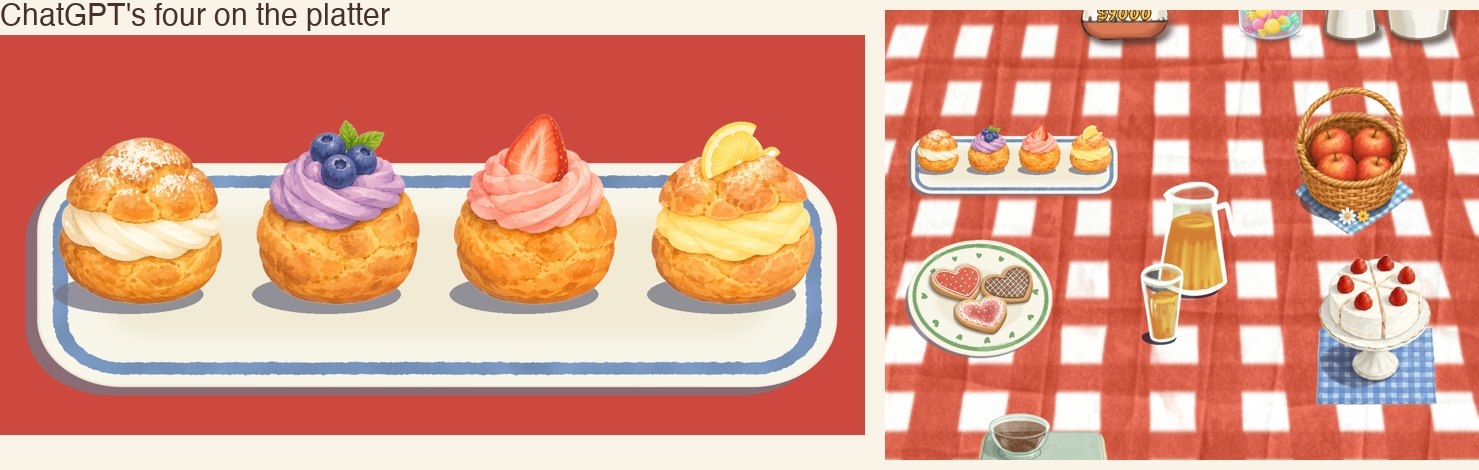
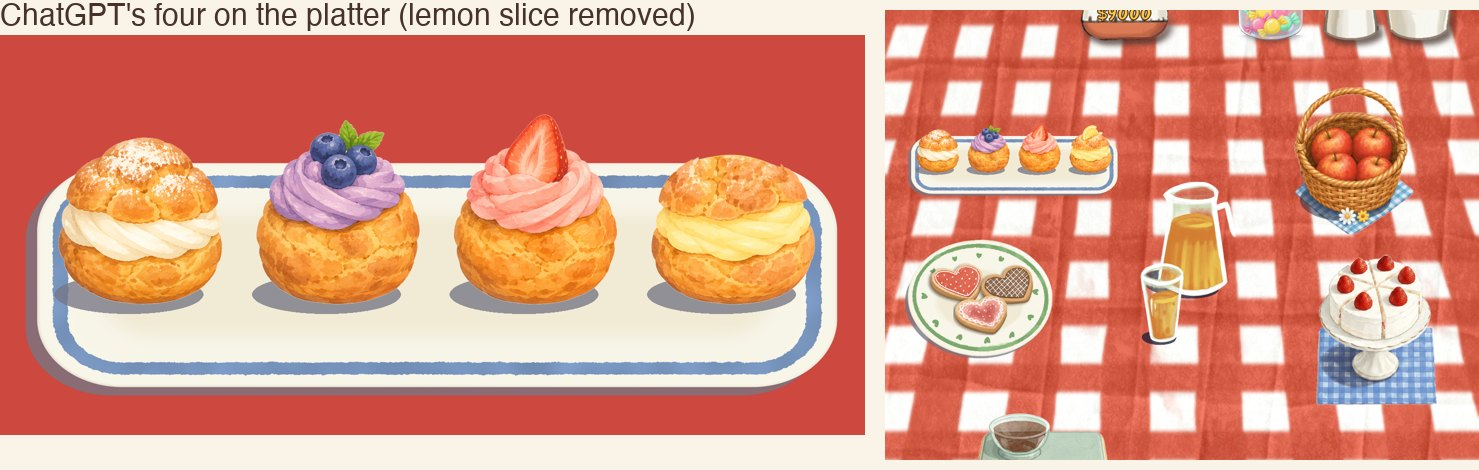
Report: lemon choux without its slice; the four choux are seen from about 30-35 degrees, not 40 (owner's question)

Changed region(s): [[0.2488, 0.0, 0.4665, 0.0596], [0.4665, 0.2383, 0.5287, 0.3872]]

diff --git a/Docs/tools/report_page/index.html b/Docs/tools/report_page/index.html
@@ -76,13 +76,24 @@ h3 small{font-weight:600;color:var(--soft);font-size:13px;margin-left:6px}
 <div class="who p1"><h3>You</h3>
 <p><b>App Store page</b> (Q&amp;A): what we can improve, tick what to do.</p>
 <p><b>Kitchen</b> (Current): the glow brush on the blender, and four ideas for the cake and choux step.</p>
-<p><b>Choux</b> (Current): your platter and ChatGPT's four new choux.</p>
+<p><b>Choux</b> (Current): your platter and ChatGPT's four new choux; their angle (Q&amp;A).</p>
 <p><b>Choux frames</b> (Q&amp;A): the third choux is fixed; the full frame still moves the choux.</p>
 <p><b>Say "build"</b> when you want a test build with these. None before your word.</p></div>
 <div class="who p2"><h3>Me</h3><p>Players since 26.11.21 (Analysis): day 1 is fixed; day 2 and the kitchen tutorial are where people stop.</p><p>26.11.22 and the 15 Stars are waiting for Apple's review; they go on sale by themselves.</p><p>ChatGPT's night beach is in the game (your tick), in no build. The kitchen board and stand stay as they are.</p></div>
 </div>
 
 <h2 id="qa"><span class="n">2</span>Q&amp;A</h2>
+<div class="q"><h3>You asked: are these choux at 40 degrees? (16 November)</h3>
+<ul>
+<li><b>No, they are seen from lower, about 30 to 35 degrees.</b> I measured the lemon choux's cream ring: it is an oval 0.55 as tall as wide. The table's look (the platter, the cookie plate, your heart plate) is 0.77 to 0.80.</li>
+<li>So next to the platter they look a little side-on: you see the side of the lid, hardly its top.</li>
+<li><b>My suggestion:</b> ask ChatGPT to paint them again from higher, with the cake stand and cookie plate as the camera reference and these four as the design reference. The next picture can be made after 4:56 PM today.</li>
+</ul>
+<ul class="checks">
+<li><label><input type="checkbox" data-id="qa.chouxangle.seen"> Seen, remove this</label></li>
+<li><label><input type="checkbox" data-id="qa.chouxangle.redo"> Ask ChatGPT to redraw them at 40 degrees</label></li>
+<li><label><input type="checkbox" data-id="qa.chouxangle.keep"> Keep them as they are</label></li>
+</ul></div>
 <div class="q"><h3>You asked: show me all the frames of choux (15 November)</h3>
 <p style="margin:6px 0">The choux board on the table has 5 frames, one per choux left. The kitchen ovens are shared, so choux has no frames of its own there.</p>
 <figure><img src="choux_frames.jpg" alt="The five choux board frames: empty, one, two, three and four choux with cream and blueberries"><figcaption>All five at the same size and position as in the game. File names in Assets/Images.</figcaption></figure>
@@ -147,7 +158,7 @@ Store text, so only with your words; Apple reviews it with the next version.</li
 <ul>
 <li><b>Painted the way your cookie plate is:</b> the same cream, no outline, a solid band with a slightly rough crayon edge (blue instead of green, same strength), a softly sunk centre, and the same hard grey-blue shadow, lower left. Sizes match the cookie plate on screen.</li>
 </ul>
-<figure><img src="choux_four.jpg" alt="Four choux on the platter: original with white cream in the middle, blueberry with lilac cream and blueberries, strawberry with pink cream and a strawberry slice, lemon with yellow cream in the middle and a lemon slice"><figcaption>Original, blueberry, strawberry, lemon. Right: on the real table.</figcaption></figure>
+<figure><img src="choux_four.jpg" alt="Four choux on the platter: original with white cream in the middle, blueberry with lilac cream and blueberries, strawberry with pink cream and a strawberry slice, lemon with yellow cream in the middle and a lemon slice"><figcaption>Original, blueberry, strawberry, lemon (its slice removed, your word). Right: on the real table, before the slice came off.</figcaption></figure>
 <ul>
 <li><b>ChatGPT drew them fresh</b> from our table art (cookie plate, cake, baskets, coffee machine) and the platter. The old choux were not shown to it.</li>
 <li>Each has a small hard shadow on the platter, like the plate's.</li>
